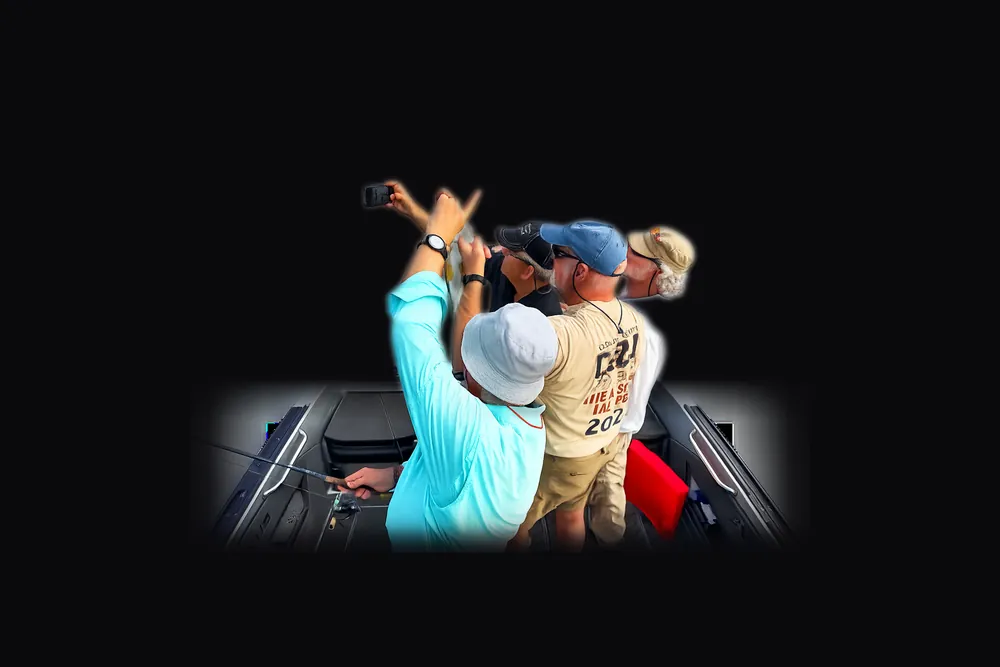
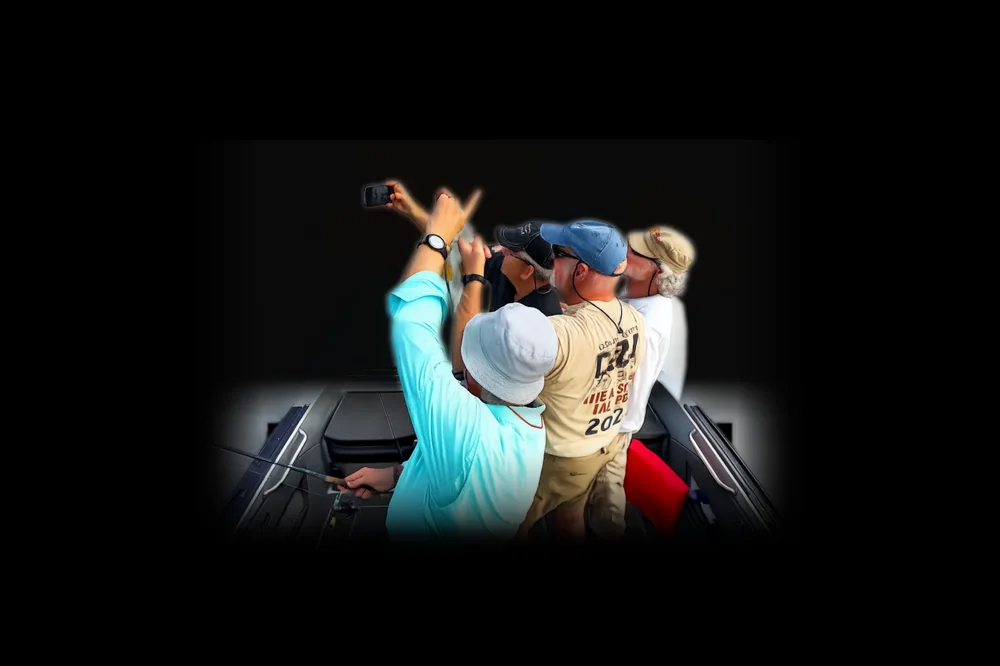
Boat page: smooth the bow→deck transition, glow on the command-center still, crew shoulder restored
Per Brady (2026-09-04):
- 01 Bow → 02 Electronics no longer pops. The deck/command-center scene now dissolves in over a 55%-of-window fade (was 34%) starting at p=0.372 while the camera is still gliding (deck pose lands at 0.412, was 0.398), and a half-strength scroll detent over the move (c=0.352) gives the glide real scroll room: 974→1539 px desktop, 787→1158 px phone.
- Command-center POV cutout gets a silhouette glow (platinum halo + red bloom drop-shadows; lighter set on phones) so it melts into black like the crew still.
- Crew still rebuilt from the un-keyed original (b5ae550): the live key's soft alpha is recovered and re-applied at the same framing, with the top-right guest's white-shirt shoulder added back (polygon-bounded luminance key; the U2Net pass had read the white shirt as backdrop).
- Helm still keyed to black with a feathered edge as an INTERIM until the current-boat cockpit photo lands (attachments are not reaching the container; assets/cockpit.webp is the previous boat, so it was not used).

Verified headless (Chromium 1440x900 + 390x844): scroll mapping, scene opacities, no JS errors; A/B filmstrip of p=0.30-0.44 confirms the dissolve; deck glow and crew shoulder inspected at scene peaks. Snapshot before edit: branch snapshot/2026-09-04-pre-scene-fixes (3b42524).

Claude-Session: https://claude.ai/code/session_015SiHFA8458dXtTRCcMoptR

diff --git a/index.html b/index.html
@@ -182,7 +182,12 @@ h1,h2,.h-display{font-family:var(--display);font-weight:700;text-transform:upper
 #pf .shot img{display:block;width:100%;height:auto;
   -webkit-mask-image:linear-gradient(to bottom,#000 74%,transparent 99%);
   mask-image:linear-gradient(to bottom,#000 74%,transparent 99%);
-  filter:drop-shadow(0 30px 60px rgba(0,0,0,.55))}
+  /* silhouette glow: the POV cutout gets a platinum halo with a faint red
+     bloom under the deck (same "melting into black" feel as the crew still) */
+  filter:drop-shadow(0 30px 60px rgba(0,0,0,.55)) drop-shadow(0 0 34px rgba(233,233,238,.32)) drop-shadow(0 0 110px rgba(213,24,32,.22))}
+@media(max-width:900px){
+  #pf .shot img{filter:drop-shadow(0 20px 40px rgba(0,0,0,.5)) drop-shadow(0 0 30px rgba(233,233,238,.26))}
+}
 
 
 /* phases C + L — full-bleed cinematic stills (Brady's cockpit + emblem) that
@@ -533,7 +538,7 @@ const POSES_D=[
   {p:0.156, fx:0.50, fy:0.50, cx:0.50, cy:0.50, wf:0.88},  // HOLD — flagship text
   {p:0.206, fx:0.12, fy:0.30, cx:0.63, cy:0.42, wf:2.05},  // bow / Ultrex
   {p:0.312, fx:0.12, fy:0.30, cx:0.63, cy:0.42, wf:2.05},  // HOLD
-  {p:0.398, fx:0.30, fy:0.40, cx:0.50, cy:0.72, wf:1.55},  // deck view backdrop (boat fades)
+  {p:0.412, fx:0.30, fy:0.40, cx:0.50, cy:0.72, wf:1.55},  // deck view backdrop — still gliding as the photo dissolves in
   {p:0.470, fx:0.30, fy:0.40, cx:0.50, cy:0.72, wf:1.55},  // HOLD under photo
   {p:0.536, fx:0.53, fy:0.36, cx:0.50, cy:0.44, wf:2.25},  // helm / windshield
   {p:0.600, fx:0.53, fy:0.36, cx:0.50, cy:0.44, wf:2.25},  // HOLD
@@ -551,7 +556,7 @@ const POSES_M=[
   {p:0.156, fx:0.50, fy:0.50, cx:0.50, cy:0.50, wf:0.94},  // HOLD
   {p:0.206, fx:0.12, fy:0.30, cx:0.55, cy:0.36, wf:2.60},
   {p:0.312, fx:0.12, fy:0.30, cx:0.55, cy:0.36, wf:2.60},  // HOLD
-  {p:0.398, fx:0.30, fy:0.40, cx:0.50, cy:0.90, wf:1.60},
+  {p:0.412, fx:0.30, fy:0.40, cx:0.50, cy:0.90, wf:1.60},  // still gliding as the deck photo dissolves in
   {p:0.470, fx:0.30, fy:0.40, cx:0.50, cy:0.90, wf:1.60},  // HOLD
   {p:0.536, fx:0.53, fy:0.34, cx:0.50, cy:0.36, wf:2.80},  // helm / windshield
   {p:0.600, fx:0.53, fy:0.34, cx:0.50, cy:0.36, wf:2.80},  // HOLD
@@ -568,7 +573,7 @@ const PHASES=[
   {el:$('#p0'), a:0.000, b:0.040, first:true},
   {el:$('#p1'), a:0.088, b:0.156},
   {el:$('#p2'), a:0.206, b:0.312},
-  {el:$('#pf'), a:0.398, b:0.470},
+  {el:$('#pf'), a:0.372, b:0.470, ein:0.55},   // long dissolve in from the bow beat
   {el:$('#p3'), a:0.536, b:0.600},
   {el:$('#pc'), a:0.648, b:0.716},
   {el:$('#pl'), a:0.716, b:0.800},
@@ -607,9 +612,14 @@ const CALLOUTS=[
 const DWELL_D={A:1.68,W:0.62}, DWELL_M={A:1.36,W:0.62};
 function buildLUT(cfg){
   const wins=[PHASES[1],PHASES[2],PHASES[3],PHASES[4],PHASES[5],PHASES[6],PHASES[7]]
-    .map(ph=>({c:(ph.a+ph.b)/2, hw:(ph.b-ph.a)*cfg.W/2}));
+    .map(ph=>({c:(ph.a+ph.b)/2, hw:(ph.b-ph.a)*cfg.W/2, k:1}));
+  /* travel detent: the bow -> deck camera move (p 0.312-0.412) used to sit in a
+     density-1 gap, so one swipe whipped through it and the deck photo popped.
+     A half-strength bump over the move gives it real scroll room — the glide
+     and the dissolve now play out instead of snapping. */
+  wins.push({c:0.352, hw:0.062, k:0.55});
   const dens=t=>{let d=1;for(const w of wins){const u=Math.abs(t-w.c);
-    if(u<w.hw)d+=cfg.A*0.5*(1+Math.cos(Math.PI*u/w.hw));}return d;};
+    if(u<w.hw)d+=cfg.A*w.k*0.5*(1+Math.cos(Math.PI*u/w.hw));}return d;};
   const N=1024, F=new Float64Array(N+1); let acc=0;
   for(let i=1;i<=N;i++){acc+=dens((i-0.5)/N)/N;F[i]=acc;}
   for(let i=0;i<=N;i++)F[i]/=acc;
@@ -704,8 +714,8 @@ function applyPose(p){
 
 function phaseOpacity(p,ph){
   if(p<ph.a||p>ph.b) return 0;
-  const span=ph.b-ph.a, edge=span*0.34;
-  const inn=ph.first?1:Math.min(1,(p-ph.a)/edge), out=Math.min(1,(ph.b-p)/edge);
+  const span=ph.b-ph.a, edge=span*0.34, ein=span*(ph.ein||0.34);   // ein: per-scene fade-in length
+  const inn=ph.first?1:Math.min(1,(p-ph.a)/ein), out=Math.min(1,(ph.b-p)/edge);
   return smooth(Math.min(inn,out));
 }
 
